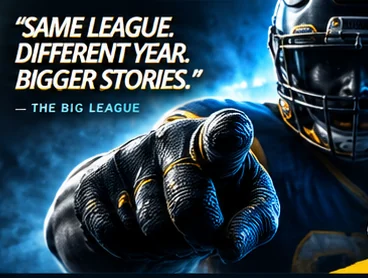
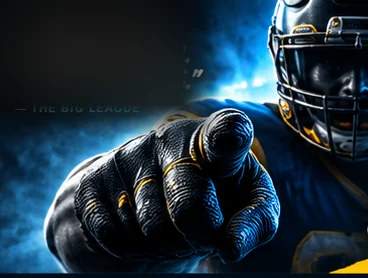
Hero photo: blur and darken the mock's baked quote so only the CSS quote reads; photo v2, hero css v18

Changed region(s): [[0.0299, 0.0576, 0.5978, 0.518], [0.1196, 0.4317, 0.1793, 0.4604]]

diff --git a/bigleague-v8.js b/bigleague-v8.js
@@ -8,7 +8,7 @@
   var HOST='https://lalaunch.github.io/big-league-mfl/';
   var CORE=HOST+'bigleague-core-v10.js?v=4';
   var MASTHEAD_CSS=HOST+'masthead-v16.css?v=3';
-  var HERO_CSS=HOST+'hero-v2.css?v=17';
+  var HERO_CSS=HOST+'hero-v2.css?v=18';
   var TEAM_LOGOS=HOST+'team-logos-v2.js?v=4';
   var PUGS_LOGO=HOST+'assets/logos/milwaukee-killer-pugs.webp?v=4';
 
@@ -34,7 +34,7 @@
       if(old && id!=='bl-hero-v2-css') old.remove();
     });
     var current=document.getElementById('bl-hero-v2-css');
-    if(current && current.href.indexOf('v=17')>=0) return;
+    if(current && current.href.indexOf('v=18')>=0) return;
     if(current) current.remove();
     var link=document.createElement('link');
     link.id='bl-hero-v2-css';

diff --git a/hero-v2.css b/hero-v2.css
@@ -308,7 +308,7 @@
 #body_home.blsn-mode .blsn-callout-side{
   background:
     linear-gradient(90deg,rgba(4,17,26,.90),rgba(4,17,26,.55) 55%,rgba(4,17,26,0)) left top/66% 58% no-repeat,
-    url("https://lalaunch.github.io/big-league-mfl/assets/hero-player-point.webp?v=1") center 42%/cover no-repeat,
+    url("https://lalaunch.github.io/big-league-mfl/assets/hero-player-point.webp?v=2") center 42%/cover no-repeat,
     #03111a!important;
 }
 #body_home.blsn-mode .blsn-callout-side .blsn-callout-go{
